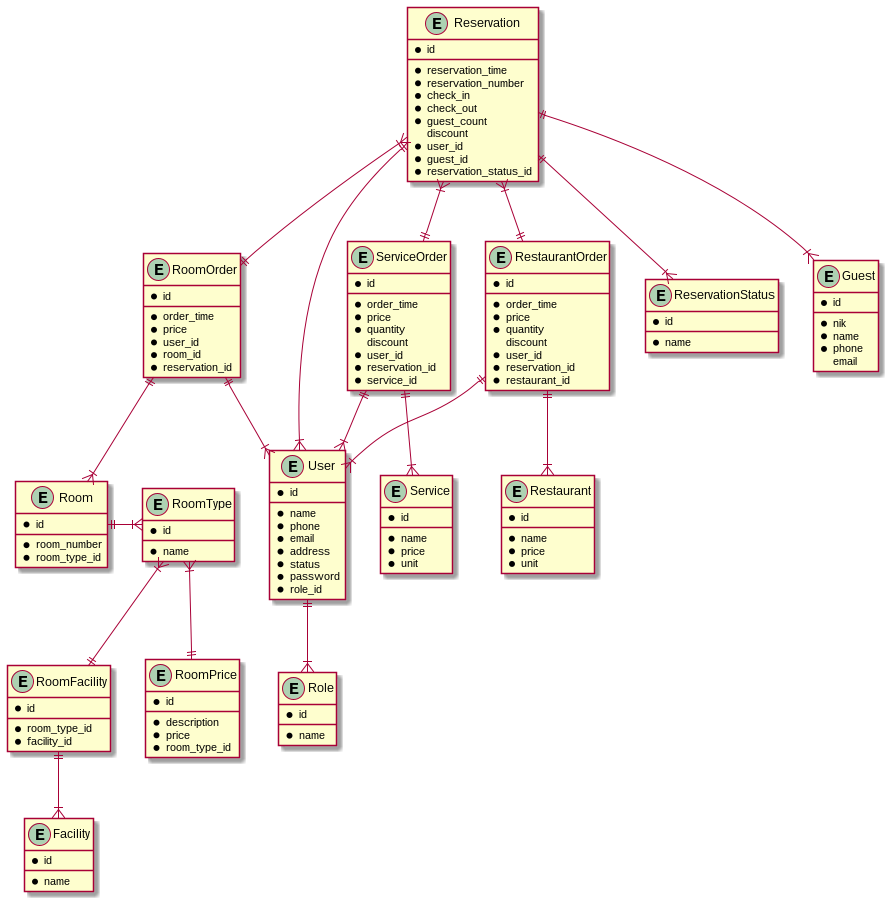
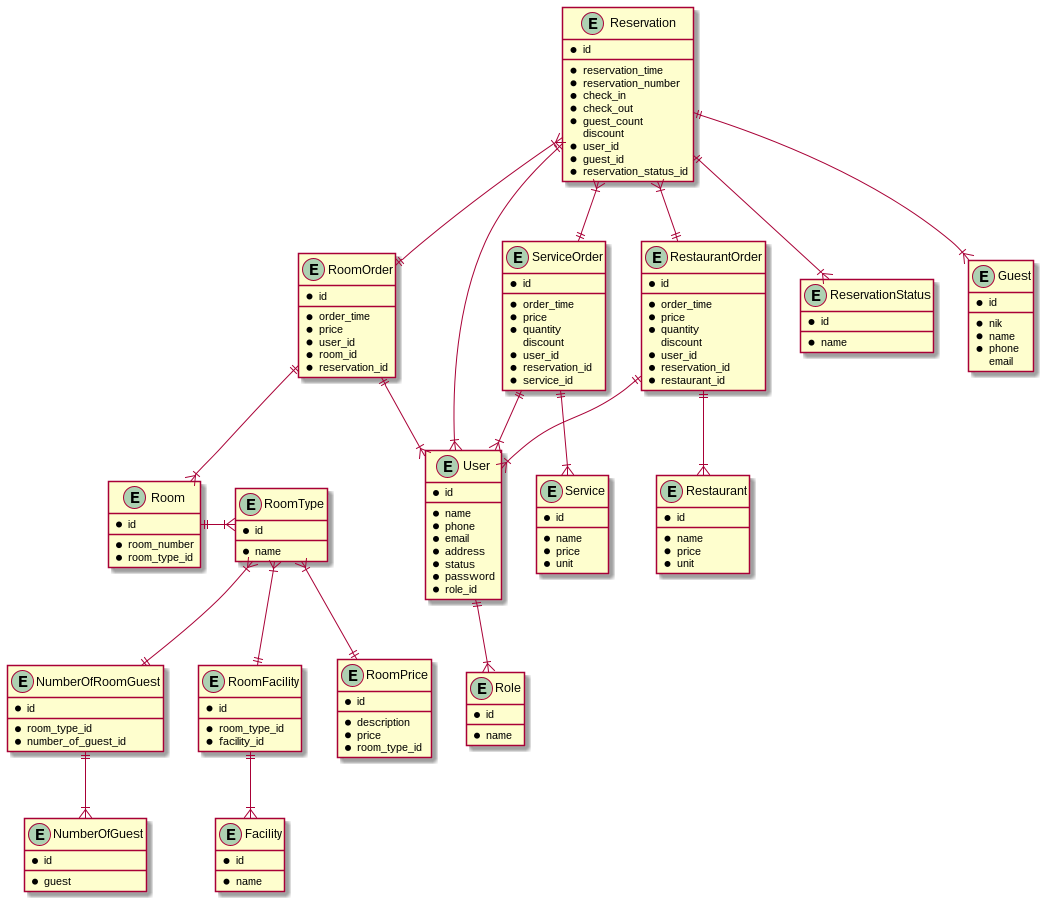
fix: seeder and factory

diff --git a/database/seeders/RoomFacilitySeeder.php b/database/seeders/RoomFacilitySeeder.php
@@ -14,8 +14,54 @@ class RoomFacilitySeeder extends Seeder
      */
     public function run()
     {
-        for ($i=1; $i <= 500; $i++) {
-            RoomFacility::factory()->count(rand(2,11))->create();
+        for ($i = 1; $i <= 500; $i++) {
+            RoomFacility::create([
+                'facility_id' => 1,
+                'room_type_id' => $i,
+            ]);
         }
+
+        for ($i = 1; $i <= 500; $i++) {
+            RoomFacility::create([
+                'facility_id' => 2,
+                'room_type_id' => $i,
+            ]);
+        }
+
+        for ($i = 1; $i <= 500; $i++) {
+            RoomFacility::create([
+                'facility_id' => 3,
+                'room_type_id' => $i,
+            ]);
+        }
+
+        for ($i = 1; $i <= 500; $i++) {
+            RoomFacility::create([
+                'facility_id' => random_int(1, 200),
+                'room_type_id' => random_int(1, 200),
+            ]);
+        }
+
+        for ($i = 1; $i <= 500; $i++) {
+            RoomFacility::create([
+                'facility_id' => random_int(201, 300),
+                'room_type_id' => random_int(201, 300),
+            ]);
+        }
+
+        for ($i = 1; $i <= 500; $i++) {
+            RoomFacility::create([
+                'facility_id' => random_int(301, 400),
+                'room_type_id' => random_int(301, 400),
+            ]);
+        }
+
+        for ($i = 1; $i <= 500; $i++) {
+            RoomFacility::create([
+                'facility_id' => random_int(401, 500),
+                'room_type_id' => random_int(401, 500),
+            ]);
+        }
+
     }
 }

diff --git a/database/seeders/RoomPriceSeeder.php b/database/seeders/RoomPriceSeeder.php
@@ -14,8 +14,28 @@ class RoomPriceSeeder extends Seeder
      */
     public function run()
     {
-        for ($i=1; $i <= 500; $i++) {
-            RoomPrice::factory()->count(random_int(2,5))->create();
+        for ($i = 1; $i <= 200; $i++) {
+            RoomPrice::create([
+                'room_type_id' => $i,
+                'description' => 'Belum termasuk makan.',
+                'price' => random_int(200000, 399999),
+            ]);
+        }
+
+        for ($i = 1; $i <= 500; $i++) {
+            RoomPrice::create([
+                'room_type_id' => $i,
+                'description' => 'Sudah termasuk makan pagi.',
+                'price' => random_int(400000, 599999),
+            ]);
+        }
+
+        for ($i = 1; $i <= 500; $i++) {
+            RoomPrice::create([
+                'room_type_id' => $i,
+                'description' => 'Sudah termasuk makan pagi siang dan malam.',
+                'price' => random_int(600000, 1000000),
+            ]);
         }
     }
 }

diff --git a/database/migrations/2021_12_22_144345_create_number_of_room_guests_table.php b/database/migrations/2021_12_22_144345_create_number_of_room_guests_table.php
@@ -1,0 +1,33 @@
+<?php
+
+use Illuminate\Database\Migrations\Migration;
+use Illuminate\Database\Schema\Blueprint;
+use Illuminate\Support\Facades\Schema;
+
+class CreateNumberOfRoomGuestsTable extends Migration
+{
+    /**
+     * Run the migrations.
+     *
+     * @return void
+     */
+    public function up()
+    {
+        Schema::create('number_of_room_guests', function (Blueprint $table) {
+            $table->id();
+            $table->foreignId('room_type_id')->constrained();
+            $table->foreignId('number_of_guest_id')->constrained();
+            $table->timestamps();
+        });
+    }
+
+    /**
+     * Reverse the migrations.
+     *
+     * @return void
+     */
+    public function down()
+    {
+        Schema::dropIfExists('number_of_room_guests');
+    }
+}

diff --git a/database/migrations/2021_12_22_144323_create_number_of_guests_table.php b/database/migrations/2021_12_22_144323_create_number_of_guests_table.php
@@ -1,0 +1,32 @@
+<?php
+
+use Illuminate\Database\Migrations\Migration;
+use Illuminate\Database\Schema\Blueprint;
+use Illuminate\Support\Facades\Schema;
+
+class CreateNumberOfGuestsTable extends Migration
+{
+    /**
+     * Run the migrations.
+     *
+     * @return void
+     */
+    public function up()
+    {
+        Schema::create('number_of_guests', function (Blueprint $table) {
+            $table->id();
+            $table->unsignedInteger('guest');
+            $table->timestamps();
+        });
+    }
+
+    /**
+     * Reverse the migrations.
+     *
+     * @return void
+     */
+    public function down()
+    {
+        Schema::dropIfExists('number_of_guests');
+    }
+}

diff --git a/database/seeders/NumberOfRoomGuestSeeder.php b/database/seeders/NumberOfRoomGuestSeeder.php
@@ -2,10 +2,10 @@
 
 namespace Database\Seeders;
 
-use App\Models\Room;
+use App\Models\NumberOfRoomGuest;
 use Illuminate\Database\Seeder;
 
-class RoomSeeder extends Seeder
+class NumberOfRoomGuestSeeder extends Seeder
 {
     /**
      * Run the database seeds.
@@ -14,10 +14,11 @@ class RoomSeeder extends Seeder
      */
     public function run()
     {
+
         for ($i = 1; $i <= 500; $i++) {
-            Room::create([
-                'room_number' => $i+'0000',
+            NumberOfRoomGuest::create([
                 'room_type_id' => $i,
+                'number_of_guest_id' => random_int(1, 2),
             ]);
         }
     }

diff --git a/database/seeders/DatabaseSeeder.php b/database/seeders/DatabaseSeeder.php
@@ -25,6 +25,7 @@ class DatabaseSeeder extends Seeder
     public function run()
     {
         $this->call([
+            NumberOfGuestSeeder::class,
             RestaurantSeeder::class,
             ServiceSeeder::class,
             GuestSeeder::class,
@@ -32,6 +33,7 @@ class DatabaseSeeder extends Seeder
             RoomTypeSeeder::class,
             RoomPriceSeeder::class,
             FacilitySeeder::class,
+            NumberOfRoomGuestSeeder::class,
             RoomFacilitySeeder::class,
             RoleSeeder::class,
             UserSeeder::class,

diff --git a/database/seeders/NumberOfGuestSeeder.php b/database/seeders/NumberOfGuestSeeder.php
@@ -1,0 +1,25 @@
+<?php
+
+namespace Database\Seeders;
+
+use App\Models\NumberOfGuest;
+use Illuminate\Database\Seeder;
+
+class NumberOfGuestSeeder extends Seeder
+{
+    /**
+     * Run the database seeds.
+     *
+     * @return void
+     */
+    public function run()
+    {
+        NumberOfGuest::create([
+            'guest' => 2,
+        ]);
+
+        NumberOfGuest::create([
+            'guest' => 4,
+        ]);
+    }
+}

diff --git a/app/Models/NumberOfRoomGuest.php b/app/Models/NumberOfRoomGuest.php
@@ -1,0 +1,16 @@
+<?php
+
+namespace App\Models;
+
+use Illuminate\Database\Eloquent\Factories\HasFactory;
+use Illuminate\Database\Eloquent\Model;
+
+class NumberOfRoomGuest extends Model
+{
+    use HasFactory;
+
+    protected $fillable = [
+        'room_type_id',
+        'number_of_guest_id',
+    ];
+}

diff --git a/app/Models/NumberOfGuest.php b/app/Models/NumberOfGuest.php
@@ -1,0 +1,15 @@
+<?php
+
+namespace App\Models;
+
+use Illuminate\Database\Eloquent\Factories\HasFactory;
+use Illuminate\Database\Eloquent\Model;
+
+class NumberOfGuest extends Model
+{
+    use HasFactory;
+
+    protected $fillable = [
+        'guest',
+    ];
+}
